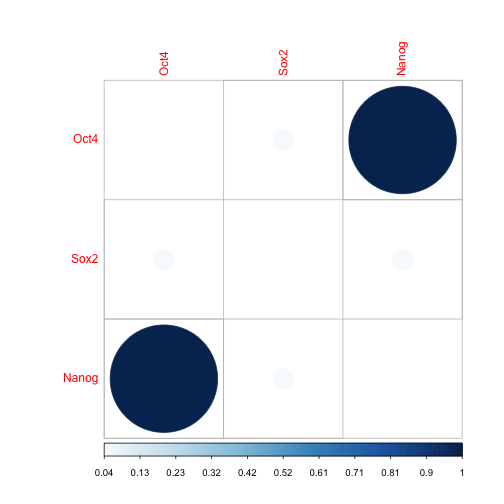
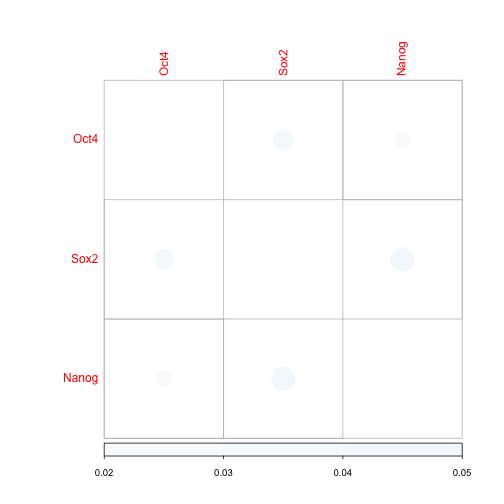
Site updated at 2012-08-20 14:16:53 UTC

Changed region(s): [[0.2083, 0.625, 0.9524, 0.9524], [0.6845, 0.1488, 0.9226, 0.3869], [0.2083, 0.9226, 0.2381, 0.9524]]

diff --git a/lecture/tohoku-u/NGS-R-Bioconductor-3rd.html b/lecture/tohoku-u/NGS-R-Bioconductor-3rd.html
@@ -256,7 +256,7 @@ is(oct4.df)</code></pre>
 <div>
   <pre><code class='r'>oct4.gr &lt;- BED2RangedData(oct4.df, header = FALSE)
 sox2.gr &lt;- BED2RangedData(sox2.df, header = FALSE)
-nanog.gr &lt;- BED2RangedData(oct4.df, header = FALSE)
+nanog.gr &lt;- BED2RangedData(nanog.df, header = FALSE)
 is(oct4.gr)</code></pre>
 </div>
 
@@ -896,8 +896,28 @@ mat.cor[1, 2] &lt;- mat.cor[2, 1] &lt;- pearsonCoef(quga.oct4.sox2)</code></pre>
 
 
 <div>
-  <pre><code class='r'>mat.cor[1, 3] &lt;- mat.cor[3, 1] &lt;- pearsonCoef(quga.oct4.nanog)
-mat.cor[2, 3] &lt;- mat.cor[3, 2] &lt;- pearsonCoef(quga.sox2.nanog)</code></pre>
+  <pre><code class='r'>mat.cor[1, 3] &lt;- mat.cor[3, 1] &lt;- pearsonCoef(quga.oct4.nanog)</code></pre>
+</div>
+
+
+
+
+<div>
+  <pre><code class='text'>## Warning: longer object length is not a multiple of shorter object length</code></pre>
+</div>
+
+
+
+
+<div>
+  <pre><code class='text'>## Warning: longer object length is not a multiple of shorter object length</code></pre>
+</div>
+
+
+
+
+<div>
+  <pre><code class='r'>mat.cor[2, 3] &lt;- mat.cor[3, 2] &lt;- pearsonCoef(quga.sox2.nanog)</code></pre>
 </div>
 
 
